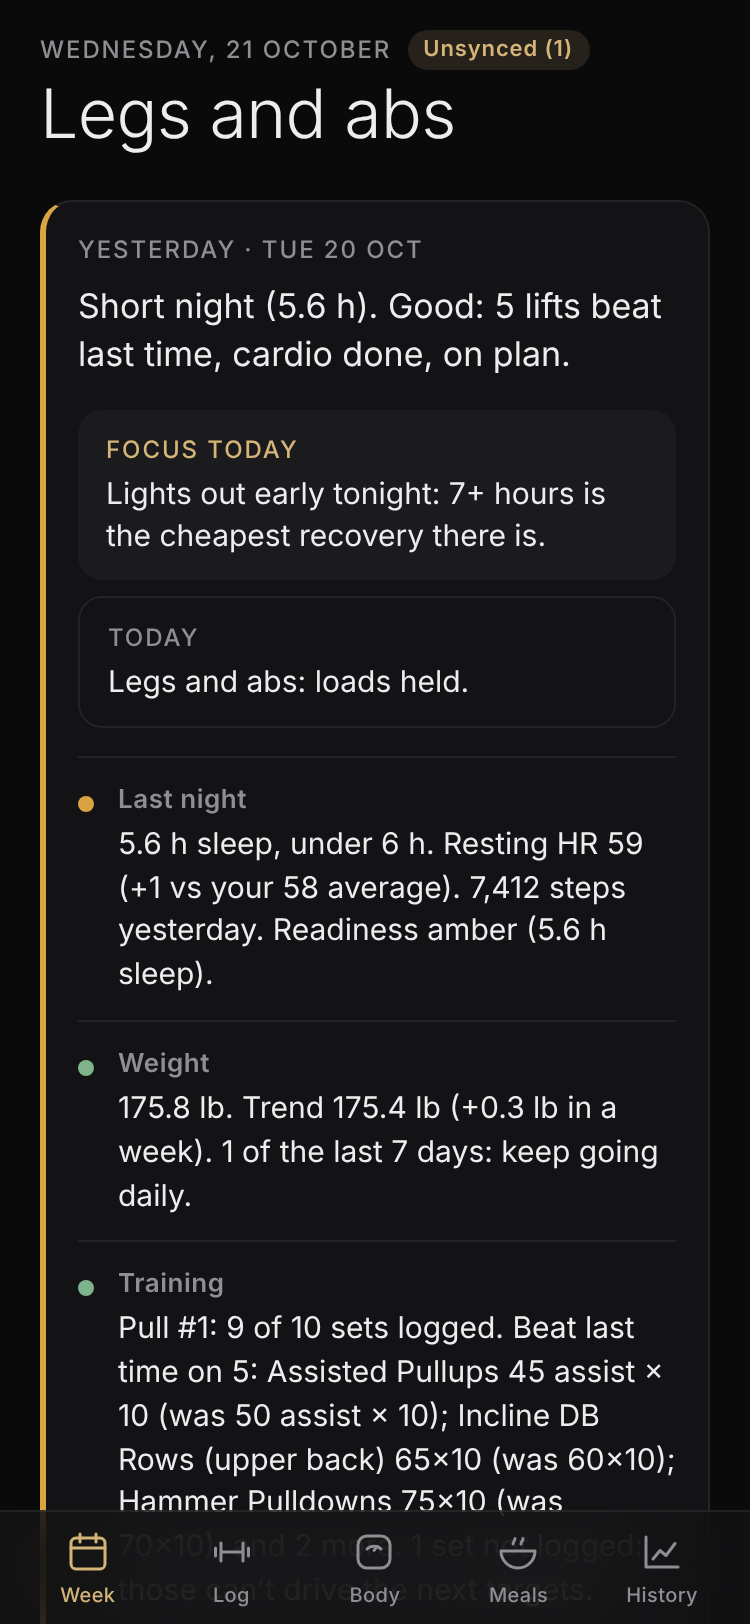
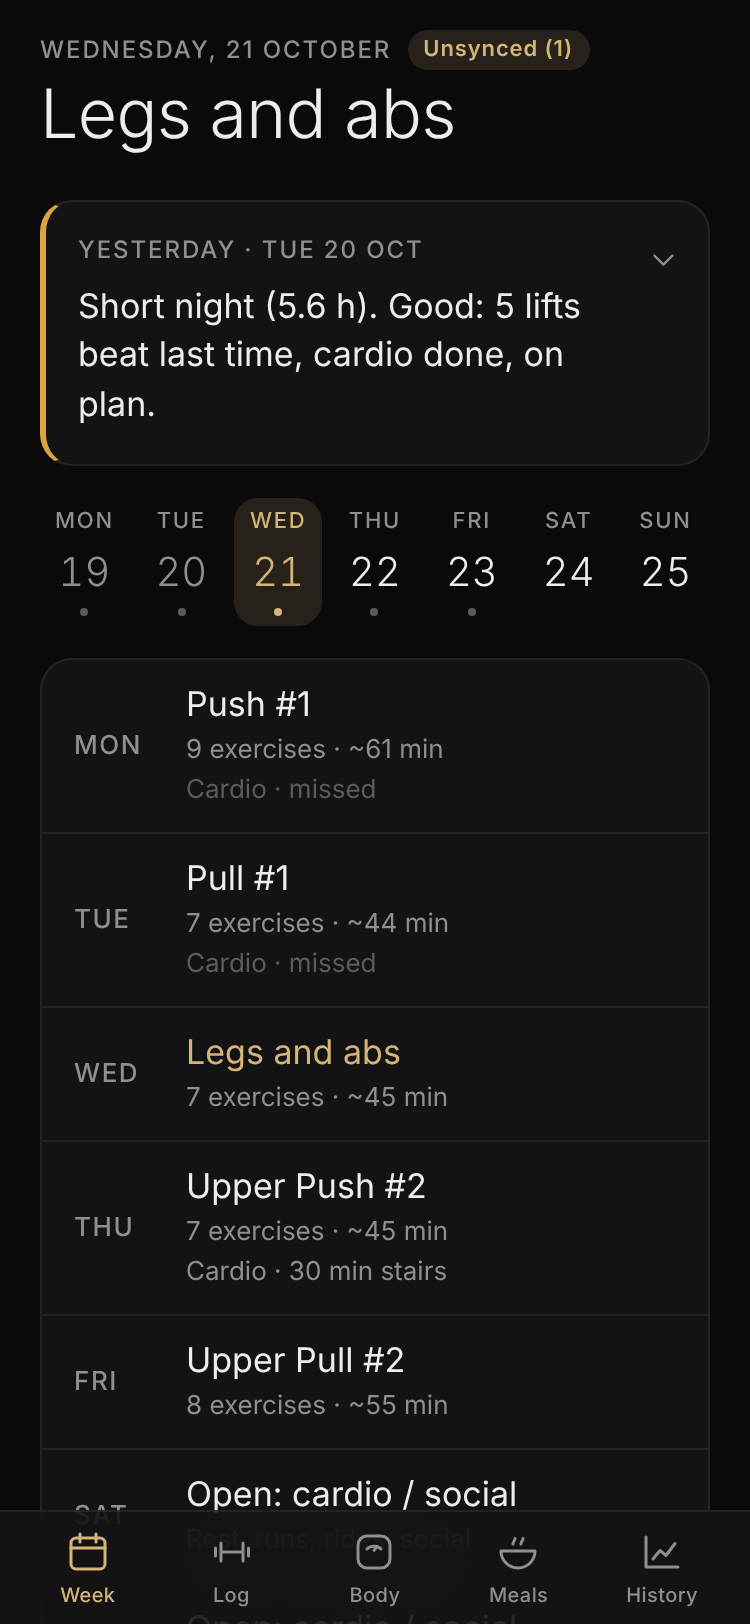
Yesterday opens and closes like Week in review (0.8.4)
- Both reviews are now one reviewBox(): title + headline with a chevron;
  a tap anywhere on the header opens the focus, today's plan and the
  details. Starts closed; remembered per day (wm.daily.<date>) and per
  week (wm.review.<week>) on this phone
- e2e: Yesterday starts closed, opens with the points in Walter's order,
  stays open after switching tabs

Claude-Session: https://claude.ai/code/session_014aJiH9Rgq3VrfiuXciGymN

diff --git a/app/views/week.js b/app/views/week.js
@@ -16,7 +16,7 @@ import { dayForWeekday } from '../../coach/program.js';
 const OPEN_DAY = 'Rest, or runs, rides, swims and social sessions, read from Strava.';
 // Same values as the seeded model (brief §5); used only if the model record is missing.
 const DEFAULT_BANDS = { cut: { target: [-0.75, -0.5], slow_limit: -0.4, cap: -1.0 }, bulk: { target: [0.1, 0.2], cap: 0.35 }, maintenance: { target: [-0.1, 0.1] } };
-const ui = { summaryOpen: {} };
+const ui = { open: {} };
 
 export async function render(screen, ctx) {
   const today = ctx.today();
@@ -146,50 +146,58 @@ async function buildSummary(ctx, { today, checkins, training, plans }) {
   });
 }
 
-// Yesterday in review + today's focus (the morning run's targets.daily). Always fully
-// open (Walter, 2026-10-13): the headline, focus, today's plan and every area.
+// Both reviews are boxes that open and close with a tap anywhere on the header (Walter,
+// 2026-10-13/14): title + headline when closed. They start closed and this phone remembers
+// how each one was left (localStorage, per day / per week).
 const pointList = (points) => h('div', { class: 'summary-points' },
   points.map((p) => h('div', { class: 'summary-point' },
     h('span', { class: `dot ${p.tone}`, 'aria-hidden': 'true' }),
     h('div', { class: 'grow' }, h('div', { class: 'pt-title' }, p.title), h('p', {}, p.text)))));
 
-function dailyCard(d) {
-  return h('section', { class: `card summary daily ${d.tone}`, 'aria-label': 'Yesterday in review', style: 'margin-bottom:16px' },
-    h('p', { class: 'label' }, `Yesterday · ${d.label}`),
-    h('p', { class: 'headline' }, d.headline),
-    h('div', { class: 'focus' }, h('span', { class: 'label' }, 'Focus today'), h('span', {}, d.focus)),
-    d.today ? h('div', { class: 'focus today' }, h('span', { class: 'label' }, 'Today'), h('span', {}, d.today)) : null,
-    pointList(d.points));
+function isOpen(key) {
+  if (key in ui.open) return ui.open[key];
+  try { return localStorage.getItem(key) === 'open'; } catch { return false; }
 }
 
-
-// Week in review: a box that opens and closes with a tap anywhere on its header
-// (Walter, 2026-10-13). Starts closed; this phone remembers how each week's was left.
-const reviewKey = (week) => `wm.review.${week}`;
-function reviewOpen(week) {
-  if (week in ui.summaryOpen) return ui.summaryOpen[week];
-  try { return localStorage.getItem(reviewKey(week)) === 'open'; } catch { return false; }
-}
-function summaryCard(sum) {
-  let open = reviewOpen(sum.week_of);
-  const range = sum.period.from.slice(5, 7) === sum.period.to.slice(5, 7)
-    ? `${Number(sum.period.from.slice(8))}–${formatDayMonth(sum.period.to)}`
-    : `${formatDayMonth(sum.period.from)} – ${formatDayMonth(sum.period.to)}`;
-  const id = `review-${sum.week_of}`;
-  const body = h('div', { class: 'summary-body', id, hidden: !open },
-    h('div', { class: 'focus' }, h('span', { class: 'label' }, 'Focus'), h('span', {}, sum.focus)),
-    pointList(sum.points));
+function reviewBox({ key, label, headline, tone, cls = '', ariaLabel, body }) {
+  let open = isOpen(key);
+  const id = key.replace(/[^a-z0-9-]/gi, '-');
+  const content = h('div', { class: 'summary-body', id, hidden: !open }, body);
   const head = h('button', { type: 'button', class: 'summary-head', 'aria-expanded': String(open), 'aria-controls': id },
-    h('span', { class: 'grow' },
-      h('span', { class: 'label' }, `Week in review · ${range}`),
-      h('span', { class: 'headline' }, sum.headline)),
+    h('span', { class: 'grow' }, h('span', { class: 'label' }, label), h('span', { class: 'headline' }, headline)),
     h('span', { class: 'chev', 'aria-hidden': 'true' }, icon('chevron', { size: 18 })));
   head.addEventListener('click', () => {
     open = !open;
-    body.hidden = !open;
+    content.hidden = !open;
     head.setAttribute('aria-expanded', String(open));
-    ui.summaryOpen[sum.week_of] = open;
-    try { localStorage.setItem(reviewKey(sum.week_of), open ? 'open' : 'closed'); } catch { /* private mode: this session only */ }
+    ui.open[key] = open;
+    try { localStorage.setItem(key, open ? 'open' : 'closed'); } catch { /* private mode: this session only */ }
   });
-  return h('section', { class: `card summary ${sum.tone}`, 'aria-label': 'Week in review', style: 'margin-bottom:16px' }, head, body);
+  return h('section', { class: ['card', 'summary', cls, tone].filter(Boolean).join(' '), 'aria-label': ariaLabel, style: 'margin-bottom:16px' }, head, content);
+}
+
+// Yesterday in review + today's focus (the morning run's targets.daily).
+function dailyCard(d) {
+  return reviewBox({
+    key: `wm.daily.${d.date}`, label: `Yesterday · ${d.label}`, headline: d.headline, tone: d.tone, cls: 'daily', ariaLabel: 'Yesterday in review',
+    body: [
+      h('div', { class: 'focus' }, h('span', { class: 'label' }, 'Focus today'), h('span', {}, d.focus)),
+      d.today ? h('div', { class: 'focus today' }, h('span', { class: 'label' }, 'Today'), h('span', {}, d.today)) : null,
+      pointList(d.points),
+    ],
+  });
+}
+
+// Week in review (the check-in's weekly summary).
+function summaryCard(sum) {
+  const range = sum.period.from.slice(5, 7) === sum.period.to.slice(5, 7)
+    ? `${Number(sum.period.from.slice(8))}–${formatDayMonth(sum.period.to)}`
+    : `${formatDayMonth(sum.period.from)} – ${formatDayMonth(sum.period.to)}`;
+  return reviewBox({
+    key: `wm.review.${sum.week_of}`, label: `Week in review · ${range}`, headline: sum.headline, tone: sum.tone, ariaLabel: 'Week in review',
+    body: [
+      h('div', { class: 'focus' }, h('span', { class: 'label' }, 'Focus'), h('span', {}, sum.focus)),
+      pointList(sum.points),
+    ],
+  });
 }

diff --git a/sw.js b/sw.js
@@ -6,7 +6,7 @@
 //   when the app posts SKIP_WAITING after Walter taps "Update available, reload".
 
 // Bump together with APP_VERSION in app/version.js on every release (a test checks).
-const CACHE_VERSION = '0.8.3';
+const CACHE_VERSION = '0.8.4';
 const SHELL_CACHE = `wmcoach-shell-${CACHE_VERSION}`;
 const DATA_CACHE = 'wmcoach-data';
 const NETWORK_FIRST = ['data/plan/', 'data/targets/'];

diff --git a/app/version.js b/app/version.js
@@ -1,2 +1,2 @@
 // Bump on every release, together with CACHE_VERSION in sw.js (a test checks they match).
-export const APP_VERSION = '0.8.3';
+export const APP_VERSION = '0.8.4';

diff --git a/CLAUDE.md b/CLAUDE.md
@@ -90,7 +90,8 @@ The new service worker installs in the background and waits. Walter sees "Update
 - `weeklySummary()` in `coach/summary.js` (pure; the weekly routine reuses it and adds its macro decision). It reviews the 7 days ending on the check-in, in spec §10 order: adherence, weigh-ins, rate vs the mode's band, training (sessions, main lifts by best-set e1RM, increases, resets), waist vs limbs, biofeedback, then the plan. The headline names the first problem in that order, then the wins; "Focus" is one action.
 - Tone: state the number and what it means. Don't soften a miss (adherence 50 % is "too low to judge anything"), and always report what went well. Days before the first logged session are never "missed".
 - Shown from the check-in through the plan week after it (`summaryVisibleUntil`).
-- A box that opens and closes with a tap anywhere on its header (`.summary-head`), showing the title and headline when closed (Walter, 2026-10-13). It starts closed, and the phone remembers each week's state in `localStorage` (`wm.review.<week_of>`). The daily "Yesterday" card is always fully open.
+- A box that opens and closes with a tap anywhere on its header (`.summary-head`), showing the title and headline when closed (Walter, 2026-10-13). It starts closed, and the phone remembers each week's state in `localStorage` (`wm.review.<week_of>`).
+- The daily "Yesterday" card is the same kind of box (Walter, 2026-10-14). Both use `reviewBox()` in `app/views/week.js`; the Yesterday state is kept under `wm.daily.<date>`.
 
 ## GitHub sync and notifications (stage 5)
 - `app/sync.js` (engine, works in Node) and `app/sync-ui.js` (queue, badge, Settings, Restore). The phone is the only writer of `data/log/`: monthly files per store (`data/log/<store>/YYYY-MM.json`), single files for phases, exercise prefs, foods and the synced meta (`settings.json`, `onboarding.json`, `push_subscription.json`). Seeded history (`source: "history"`) is not copied; Restore re-seeds it.

diff --git a/claude/APP_SPEC.md b/claude/APP_SPEC.md
@@ -327,7 +327,7 @@ The coach prescribes cardio as part of each day's workout. Strava records what h
 
 ### 6.6 Daily summary (Walter, 2026-10-13)
 Each morning the Week tab opens on **Yesterday · <date>**: an executive summary of the previous day and the focus for today. It's pure code in `coach/daily.js`, computed by the daily run into `targets/today.json` → `daily`, and recomputed when Health data is re-synced (§2b). The voice is the weekly review's (§10): the numbers first, no softening, always what went well, then one thing to do.
-- **Always fully open** (Walter, 2026-10-13). By contrast, the Week in review is a box that opens and closes with a tap on its header; it starts closed and the phone remembers how each week's was left.
+- **A box like the Week in review** (Walter, 2026-10-14): the title and headline show; a tap anywhere on them opens the focus, today's plan and the details. It starts closed, and the phone remembers how each day's was left.
 - **Yesterday, by area** (each with a good / warn / bad dot), in this order (Walter, 2026-10-13): last night, weight, training, cardio, food. The cardio area always ends with **today's 3-mile pace**:
   - Baseline: the median pace of his last 3-mile Strava runs (2.5–3.5 mi, last 90 days, up to 5, road runs before trail). Without one, the midpoint of Strava's tempo pace zone (`get_athlete_zones` run zones, kept in `state.run_zones`).
   - Readiness green: steady, baseline ± 10 s/mi. Amber: easy, baseline + 60–90 s/mi, at the Zone 2 heart rate. Red: no run, an easy 20–30 min walk.
